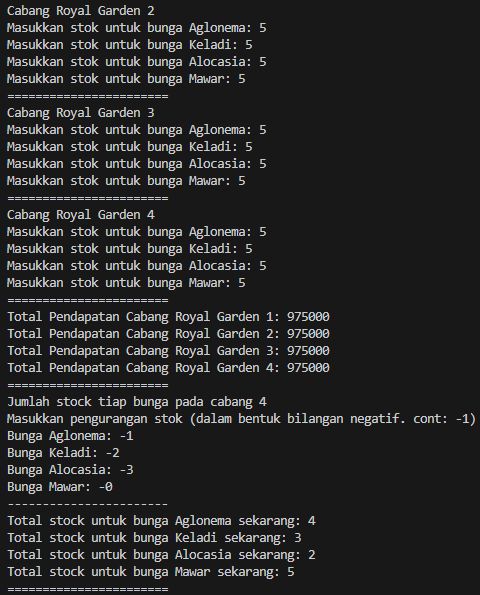
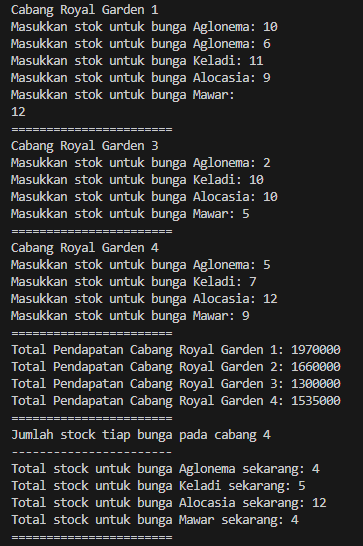
fix: remove input for reduction stock flowers in fungsi.java

diff --git a/pertemuan1/fungsi.java b/pertemuan1/fungsi.java
@@ -43,11 +43,9 @@ public class fungsi {
     }
 
     public static int[][] jumlahStockCabang4(int stokBunga[][]) {
-        System.out.println("Masukkan pengurangan stok (dalam bentuk bilangan negatif. cont: -1)");
+        int penguranganStock[] = { -1, -2, -0, -5 };
         for (int i = 0; i < stokBunga.length; i++) {
-            System.out.print("Bunga "
-                    + namaBunga[i] + ": ");
-            stokBunga[3][i] += sc.nextInt();
+            stokBunga[3][i] += penguranganStock[i];
         }
         return stokBunga;
     }

diff --git a/pertemuan1/laporanP1.md b/pertemuan1/laporanP1.md
@@ -55,14 +55,13 @@ The solution is implemented in fungsi.java, and below is screenshot of the resul
 
 ![Screenshot](../img/p1/img4.png)
 
-**Brief explanaton:** There are 6 main step:
+**Brief explanaton:** There are 5 main step:
 
 1. Input stock for all cabang
 2. Calculate income for each cabang if all flowers sold out
 3. Print income for all cabang
-4. Input pengurangan stock for cabang 4 using negative number
-5. Calculate stock in cabang 4 after reduction
-6. Print stock for cabang 4
+4. Calculate stock in cabang 4 after reduction
+5. Print stock for cabang 4
 
 # Assignment
 
